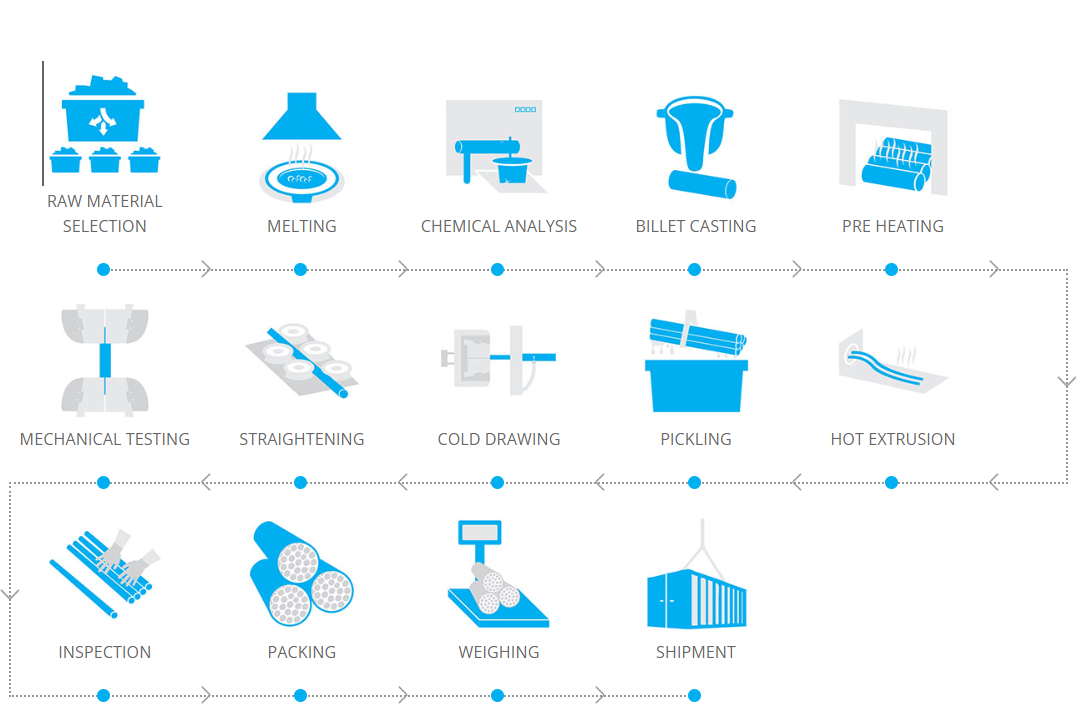
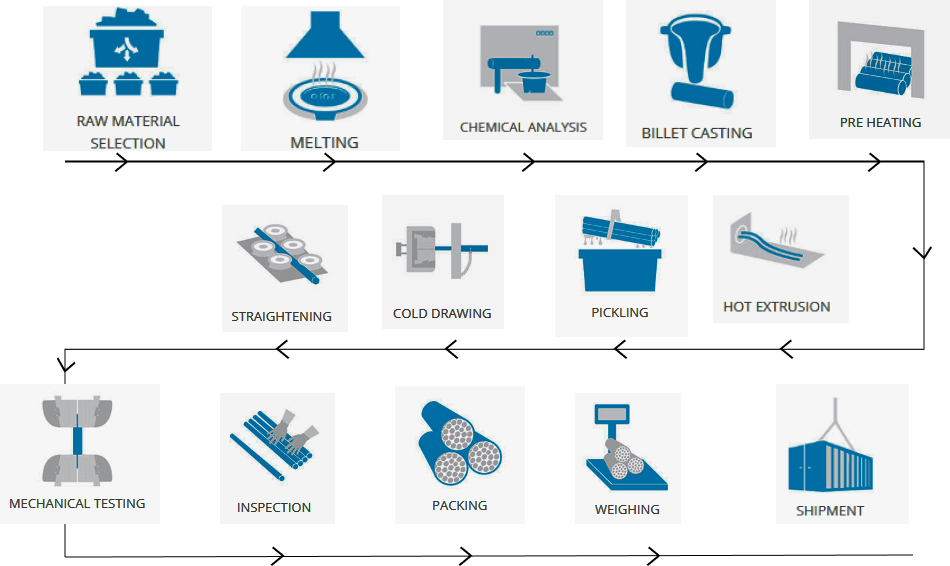
completed about page

diff --git a/about1.html b/about1.html
@@ -20,6 +20,9 @@
       src: url("chrome-extension://mcgbeeipkmelnpldkobichboakdfaeon/css/Roboto-Regular.ttf");
     }
   </style>
+  <link rel="preconnect" href="https://fonts.googleapis.com">
+<link rel="preconnect" href="https://fonts.gstatic.com" crossorigin>
+<link href="https://fonts.googleapis.com/css2?family=Cinzel:wght@600&family=MedievalSharp&display=swap" rel="stylesheet">
   <script src="about.js"></script>
   <script src="main.js"></script>
   <script src="https://cdnjs.cloudflare.com/ajax/libs/jquery/3.2.1/jquery.min.js"></script>
@@ -82,19 +85,22 @@
         of our total production.
       </div>
     </div>
+    <br>
   </div>
+  <br>
+  <br>
   <div class="box-container">
     <div class="box-item">
       <div class="flip-box">
         <div class="flip-box-front text-center"
-          style="background-image: url('https://s25.postimg.cc/frbd9towf/cta-2.png');">
+          style="background-image: url('scrap.png');">
           <div class="inner color-white">
-            <h3 class="flip-box-header">Wrecking Yard</h3>
+            <h3 class="flip-box-header">Recycling Scrap</h3>
             <img src="https://s25.postimg.cc/65hsttv9b/cta-arrow.png" alt="" class="flip-box-img">
           </div>
         </div>
         <div class="flip-box-back text-center"
-          style="background-image: url('https://s25.postimg.cc/frbd9towf/cta-2.png');">
+          style="background-image: url('scrap.png');">
           <div class="inner color-white">
             <p>Scrap/Raw Material is often taken to a wrecking yard (also knownas a scrapyard or breaker's yard), where
               it is processed for later melting into new products.In-house huge area allotted & common non-ferrous
@@ -129,7 +135,7 @@
         <div class="flip-box-front text-center"
           style="background-image: url('https://s25.postimg.cc/frbd9towf/cta-2.png');">
           <div class="inner color-white">
-            <h3 class="flip-box-header">Depot</h3>
+            <h3 class="flip-box-header"></h3>
             <img src="https://s25.postimg.cc/65hsttv9b/cta-arrow.png" alt="" class="flip-box-img">
           </div>
         </div>
@@ -159,8 +165,7 @@
         <div class="flip-box-back text-center"
           style="background-image: url('https://s25.postimg.cc/frbd9towf/cta-2.png');">
           <div class="inner color-white">
-            <p>In our present set up we have three extrusion press of different
-              tonnage helps us make different shapes of different alloys for achieving a perfect mix. Two main
+            <p>In our present set up we have extrusion press which helps us make different shapes of different alloys for achieving a perfect mix. Two main
               advantages of this process over other manufacturing processes are its ability to create very complex
               cross-sections, and to work materials that are brittle.</p>
           </div>
@@ -239,7 +244,7 @@
         <div class="flip-box-front text-center"
           style="background-image: url('https://s25.postimg.cc/frbd9towf/cta-2.png');">
           <div class="inner color-white">
-            <h3 class="flip-box-header">Tool Room</h3>
+            <h3 class="flip-box-header">Inhouse Tooling and Testing Lab</h3>
             <img src="https://s25.postimg.cc/65hsttv9b/cta-arrow.png" alt="" class="flip-box-img">
           </div>
         </div>
@@ -259,7 +264,7 @@
         <div class="flip-box-front text-center"
           style="background-image: url('https://s25.postimg.cc/frbd9towf/cta-2.png');">
           <div class="inner color-white">
-            <h3 class="flip-box-header">Micro Structure Testing</h3>
+            <h3 class="flip-box-header">Ultrasonic Testing</h3>
             <img src="https://s25.postimg.cc/65hsttv9b/cta-arrow.png" alt="" class="flip-box-img">
           </div>
         </div>
@@ -278,8 +283,14 @@
     </div>
 
   </div>
-
-  <div class="section tint wf-section">
+  <div class="manu">
+    <br>
+    <h2 class="manuh">Our Manufacturing Process</h2>
+    <br>
+    <img id="manuf" src="manufacturing.png">
+    <br>
+  </div>
+  <div class="section tint wf-section khattar">
     <div class="container w-container">
       <div class="section-description">
         <div class="section-title-wrapper">

diff --git a/aboutstyles.css b/aboutstyles.css
@@ -374,7 +374,7 @@ html {
   display: flex;
   flex-direction: column;
   justify-content: space-around;
-  padding: 35px 15px;
+  padding: 14px 120px;
   width: 100%;
 }
 
@@ -497,11 +497,27 @@ html {
   padding: 15px 20px;
   text-transform: uppercase;
 }
-
+.manu{
+  align-items: center;
+  background-color: #F5F5F5;
+}
+#manuf{
+  display: block;
+  margin-left: auto;
+  margin-right: auto;
+}
+.manuh{
+  text-align: center;
+  margin-top:30px;
+  margin-bottom:30px;
+  font-family: 'Cinzel', serif;
+}
 /* h1 {
   text-align: center;
 } */
-
+.khattar{
+  background-color: white !important;
+}
 /* Footer */
 .footer-section {
   background: #151414;
